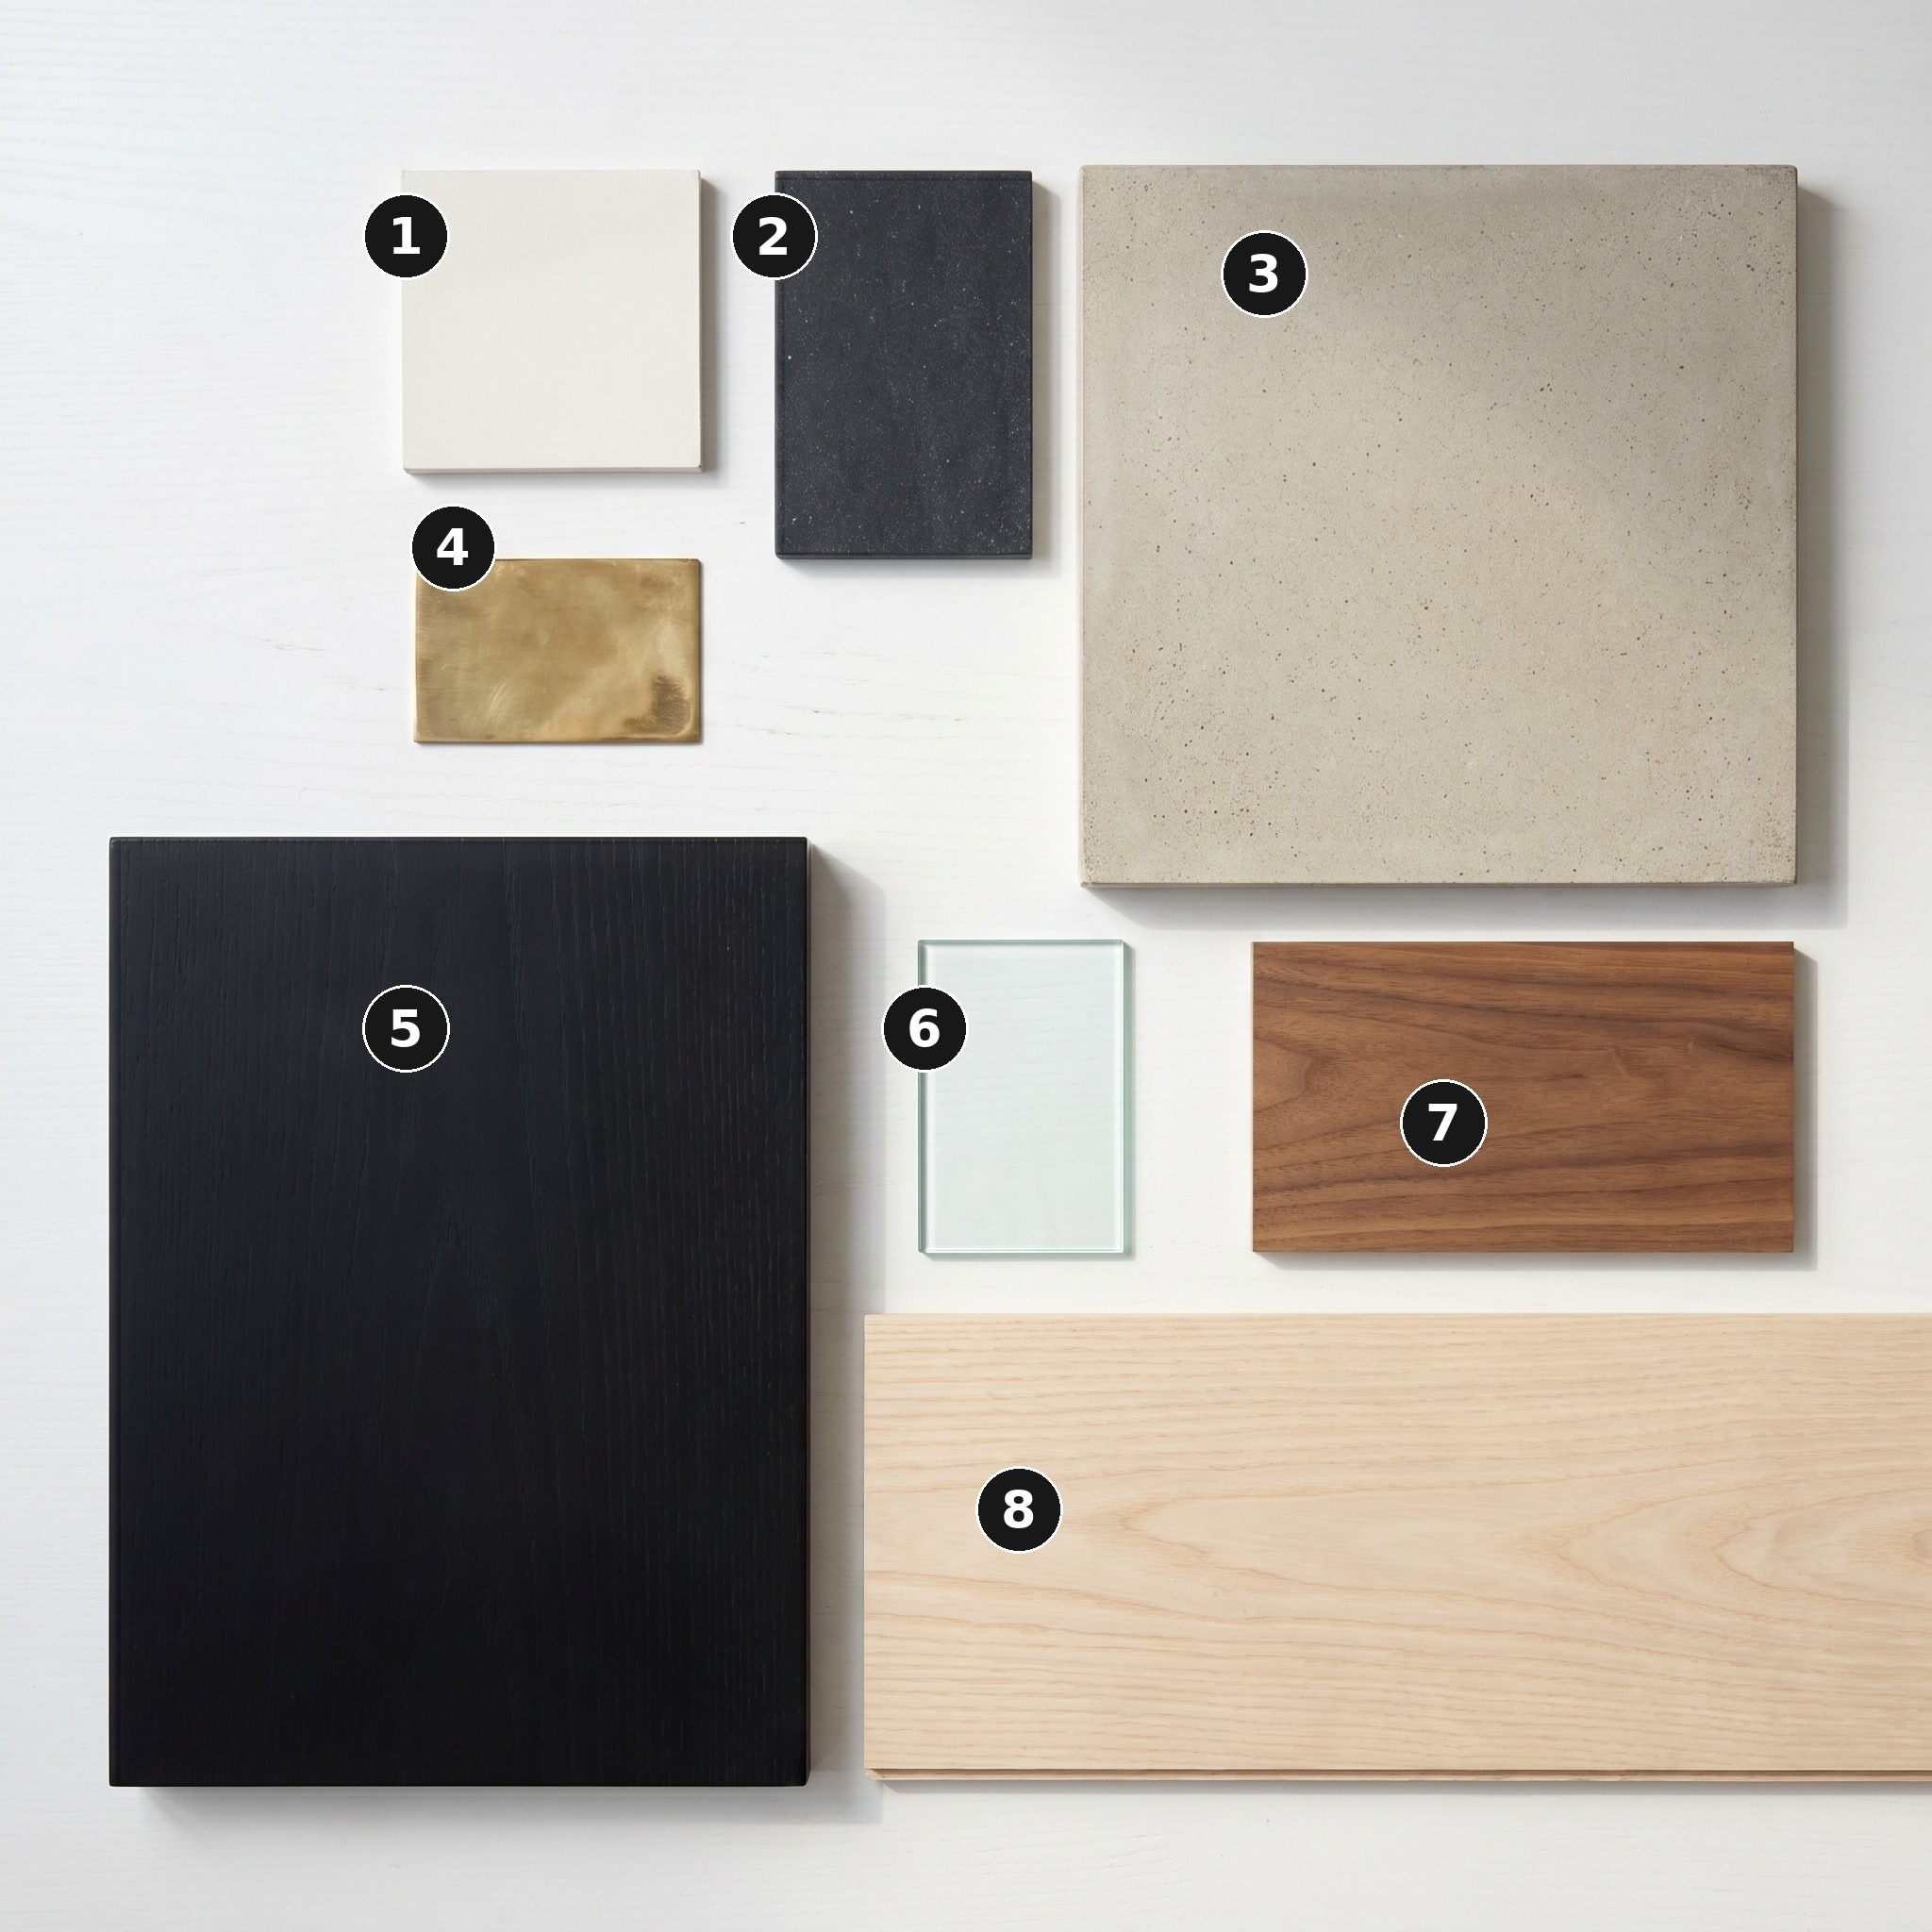
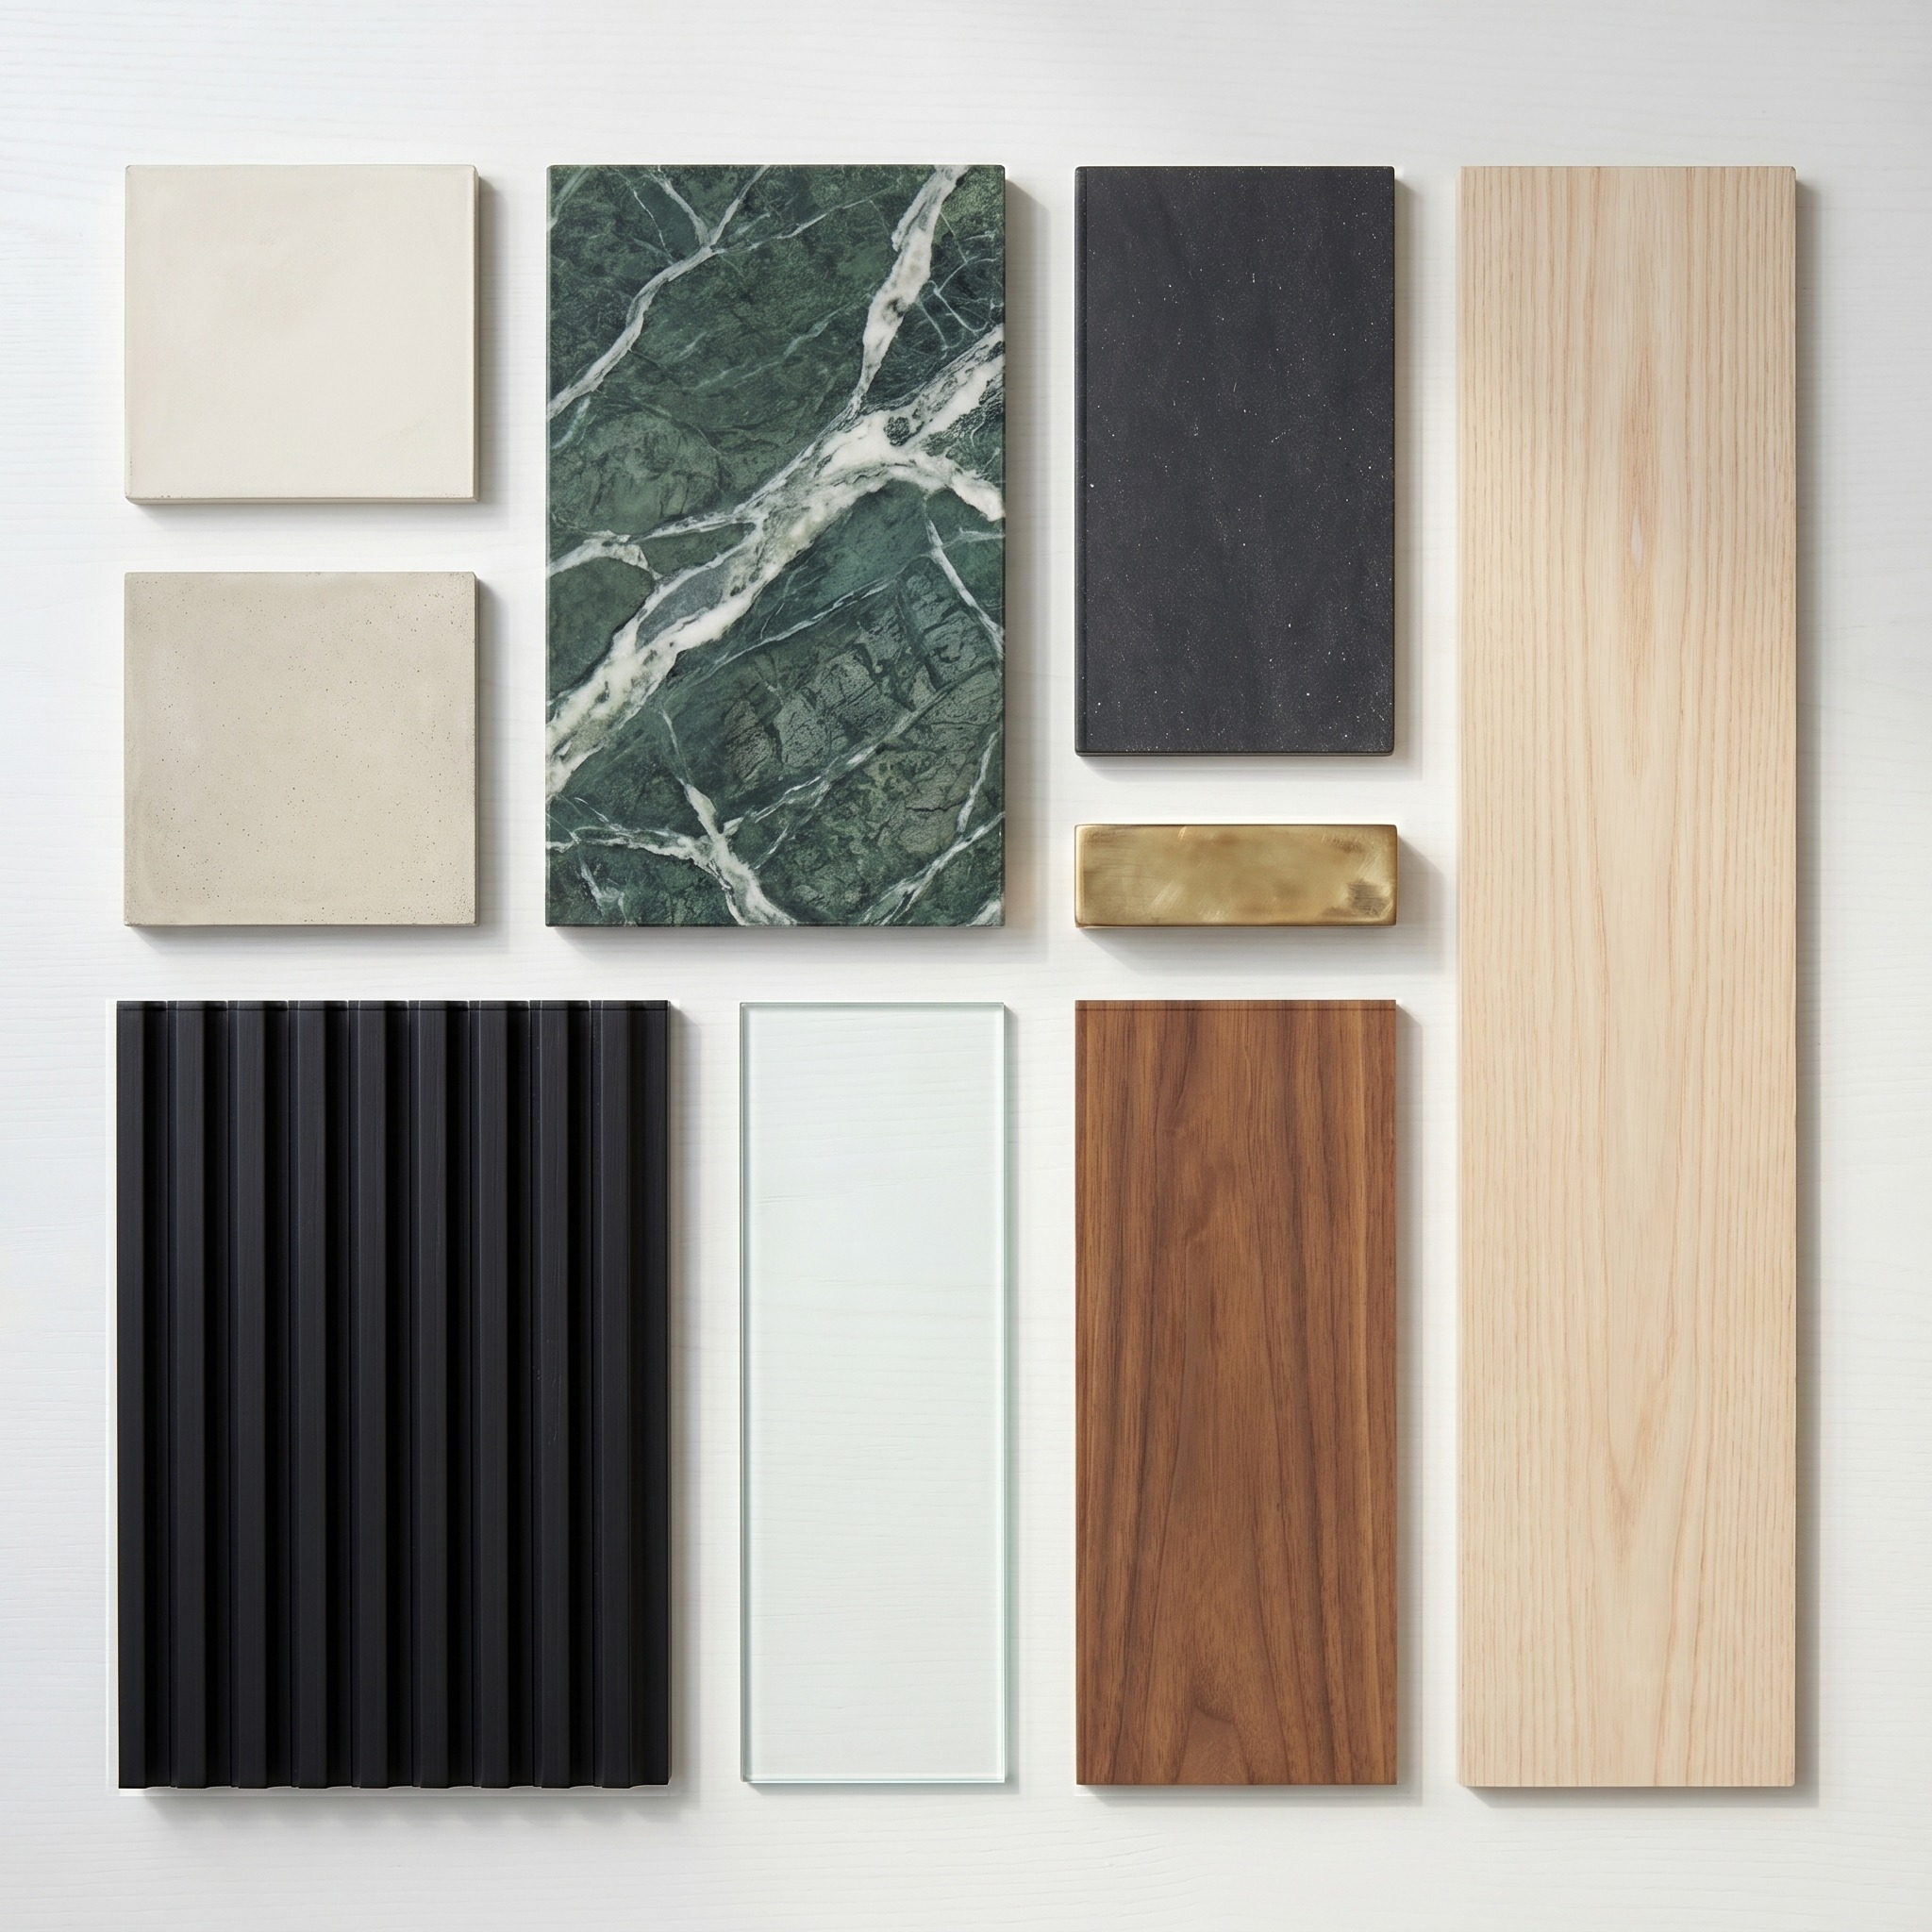
Add green marble (verde alpi) to Meadow Grove materials board.
The bar counter in the lower-ground living suite uses a dramatic
veined green marble that wasn't on the original 8-sample board.
Regenerated the board (via nano_banana_2 at 2K, with the bar-counter
photograph as a reference for the marble's specific veining and the
existing clean board as a style reference) to include the new sample.

- materials-board.jpg and materials-board_clean.jpg replaced with
  the 9-sample regeneration.
- materials.json: new "Polished verde alpi green marble" entry at
  id:2 (slotted with the other stones); other ids shifted +1.
  numbering_pass reset to "pending" — the new image has no numbered
  circles yet; the website renders the <ol> numbers via CSS marker
  regardless, so the page still reads correctly.
- _index.json material_count for meadow-grove-barnes: 8 -> 9.
- meadow-grove-barnes.html: section refreshed via
  insert-materials-boards.py to show all 9 items in the key.

diff --git a/meadow-grove-barnes.html b/meadow-grove-barnes.html
@@ -687,7 +687,7 @@
     <figure class="materials-board__image">
       <img src="/materials-boards/meadow-grove-barnes/materials-board.jpg"
            onerror="this.onerror=null;this.src='/materials-boards/meadow-grove-barnes/materials-board_clean.jpg'"
-           alt="Overhead flat lay of 8 material samples from Meadow Grove, Barnes — Warm-white matt plaster, Honed dark charcoal stone worktop, Pale polished concrete floor, Aged brass, Matt-black painted joinery, Frameless clear float glass, Warm walnut veneer and Pale ash plank floor — arranged on a soft warm-white painted timber surface."
+           alt="Overhead flat lay of 9 material samples from Meadow Grove, Barnes — Warm-white matt plaster, Polished verde alpi green marble, Honed dark charcoal stone worktop, Pale polished concrete floor, Aged brass, Matt-black painted joinery, Frameless clear float glass, Warm walnut veneer and Pale ash plank floor — arranged on a soft warm-white painted timber surface."
            loading="lazy" decoding="async"
            width="2048" height="2048">
     </figure>
@@ -695,6 +695,10 @@
         <li>
           <span class="materials-board__name">Warm-white matt plaster</span>
           <span class="materials-board__use">Ceiling and walls</span>
+        </li>
+        <li>
+          <span class="materials-board__name">Polished verde alpi green marble</span>
+          <span class="materials-board__use">Bar counter top, lower-ground living suite</span>
         </li>
         <li>
           <span class="materials-board__name">Honed dark charcoal stone worktop</span>